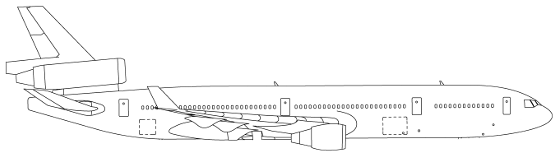
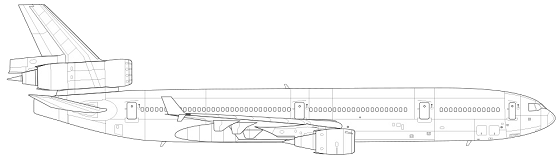
new sprite md11

Changed region(s): [[0.0, 0.0261, 1.0, 0.9935], [0.0911, 0.7582, 0.1214, 0.7843]]

diff --git a/shilka2/Aircraft.cs b/shilka2/Aircraft.cs
@@ -1841,7 +1841,7 @@ namespace shilka2
                                 aircraftType: "md11",
                                 aircraftName: "MD-11",
                                 hitPoint: 100,
-                                size: new int[] { 560, 153 },
+                                size: new int[] { 560, 157 },
                                 speed: 8,
                                 minAltitude: minAltitudeForLargeAircraft,
                                 cantEscape: true,
@@ -2024,7 +2024,6 @@ namespace shilka2
                             break;
                     }
                     break;
-
             }
         }
     }
